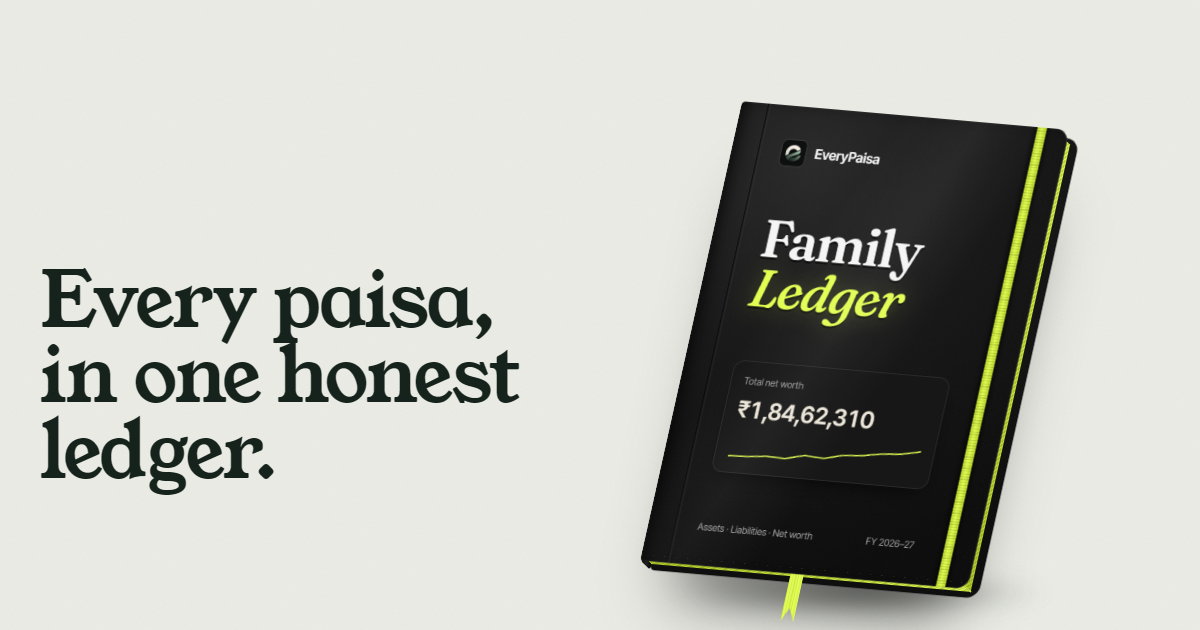
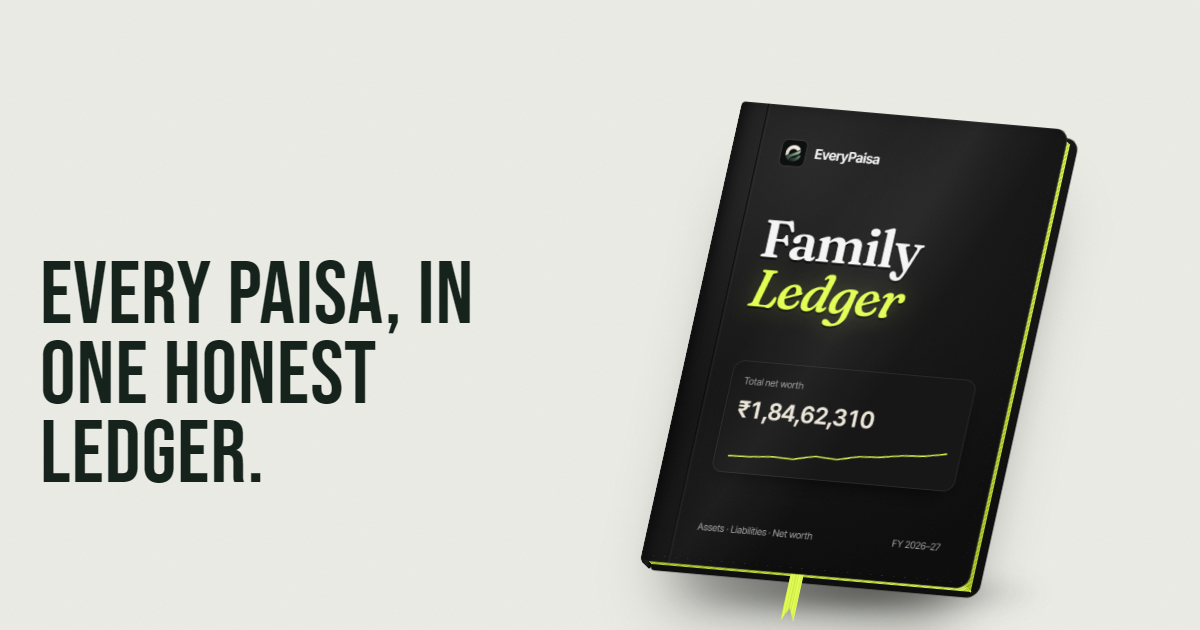
style(site): remove the elastic band from the ledger cover

diff --git a/portfolioos/apps/site/src/components/home/LedgerHero.tsx b/portfolioos/apps/site/src/components/home/LedgerHero.tsx
@@ -18,7 +18,6 @@ export function LedgerHero() {
     const scaler = el.querySelector<HTMLElement>('.book-scaler')!;
     const book = el.querySelector<HTMLElement>('.book')!;
     const cover = el.querySelector<HTMLElement>('.cover')!;
-    const band = el.querySelector<HTMLElement>('.band')!;
     const floor = el.querySelector<HTMLElement>('.book-floor')!;
     const leaves = [1, 2, 3].map((n) => el.querySelector<HTMLElement>(`[data-leaf="${n}"]`)!);
     const narrow = window.matchMedia('(max-width: 960px)').matches;
@@ -45,7 +44,6 @@ export function LedgerHero() {
       if (prefersReducedMotion()) {
         gsap.set(book, openPose());
         gsap.set(cover, { z: 0.5, rotationY: -180, transformOrigin: 'left center' });
-        gsap.set(band, { autoAlpha: 0 });
         gsap.set(floor, { scaleX: 1.9 });
         leaves.forEach((l, i) => gsap.set(l, { z: 3 - i, transformOrigin: 'left center' }));
         setCaption(1);
@@ -81,7 +79,6 @@ export function LedgerHero() {
       });
       tl.to(book, { ...openPose(), duration: 1 }, 0)
         .to(cover, { rotationY: -180, z: 0.5, duration: 1 }, 0.1)
-        .to(band, { autoAlpha: 0, duration: 0.25 }, 0.05)
         .to(floor, { scaleX: narrow ? 1.9 : () => 1.9 * openScale(), scaleY: narrow ? 1 : openScale, y: narrow ? 0 : () => (openScale() - 1) * cssNum('--ph', 490) * 0.5, opacity: 0.9, duration: 1 }, 0);
       if (!narrow) {
         // As it opens, the headline steps aside and the ledger moves to the
@@ -171,7 +168,6 @@ export function LedgerHero() {
                         </svg>
                       </div>
                       <div className="cf-foot"><span>Assets · Liabilities · Net worth</span><span>FY 2026–27</span></div>
-                      <div className="band" />
                     </div>
                     <div className="face back board">
                       <div className="endpaper">

diff --git a/portfolioos/apps/site/src/styles/ledger.css b/portfolioos/apps/site/src/styles/ledger.css
@@ -39,7 +39,7 @@
 /* ---------- front cover ---------- */
 .cover .face.front.cover-front {
   border-radius: 4px 14px 14px 4px; overflow: hidden;
-  padding: 10% 19% 9% 15%;
+  padding: 10% 11% 9% 15%;
   display: flex; flex-direction: column; justify-content: space-between;
   color: #f5f5f5; font-family: var(--f-app);
   box-shadow: inset 0 0 0 1px rgba(255, 255, 255, .06), inset -1px 0 0 rgba(255, 255, 255, .1), inset 12px 0 20px -10px rgba(0, 0, 0, .9);
@@ -71,12 +71,7 @@
 .cf-spark { width: 100%; height: calc(var(--pw) * .08); color: var(--lime); margin-top: 4px; }
 .cf-foot { display: flex; justify-content: space-between; gap: 8px; color: #9e9e9e; font-size: calc(var(--pw) * .028); }
 
-/* elastic band and ribbon, notebook style */
-.band {
-  position: absolute; top: 0; bottom: 0; right: 7%; width: calc(var(--pw) * .028);
-  background: repeating-linear-gradient(0deg, rgba(0, 0, 0, .14) 0 1px, transparent 1px 3px), linear-gradient(90deg, var(--lime-deep), var(--lime) 45%, var(--lime-deep));
-  box-shadow: -3px 0 5px rgba(0, 0, 0, .55), 3px 0 4px rgba(0, 0, 0, .4);
-}
+/* ribbon bookmark */
 .book > .ribbon {
   inset: auto; left: 44%; bottom: -46px; width: calc(var(--pw) * .04); height: 72px;
   background: repeating-linear-gradient(90deg, rgba(0, 0, 0, .1) 0 1px, transparent 1px 3px), var(--lime);
@@ -146,7 +141,6 @@
 .ledger-mini .lc-title { font-family: var(--f-app-display); font-weight: 600; font-size: 46px; line-height: .95; letter-spacing: -.02em; position: relative; }
 .ledger-mini .lc-title em { color: var(--lime); font-style: italic; font-weight: 500; }
 .ledger-mini .lc-cols { font-size: 13px; color: #9e9e9e; position: relative; }
-.ledger-mini .band { right: 14%; width: 9px; }
 
 @media (max-width: 560px) {
   .bookplate small { display: none; }

diff --git a/portfolioos/apps/site/src/components/home/Scatter.tsx b/portfolioos/apps/site/src/components/home/Scatter.tsx
@@ -66,7 +66,6 @@ export function Scatter() {
           <div className="scatter-ledger board ledger-mini">
             <div className="lc-title">Family<br /><em>Ledger</em></div>
             <div className="lc-cols">Everything, in one book</div>
-            <div className="band" />
           </div>
         </div>
         <div className="scatter-foot">
